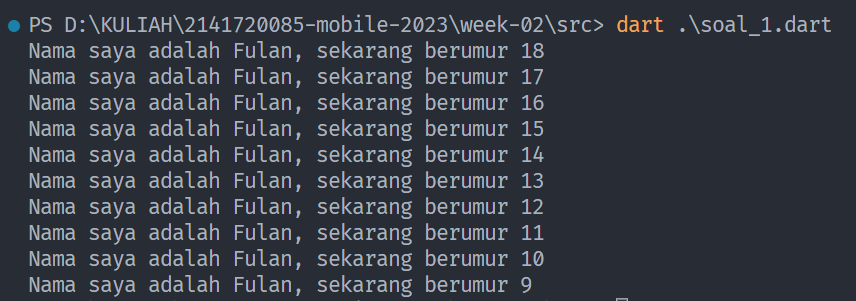
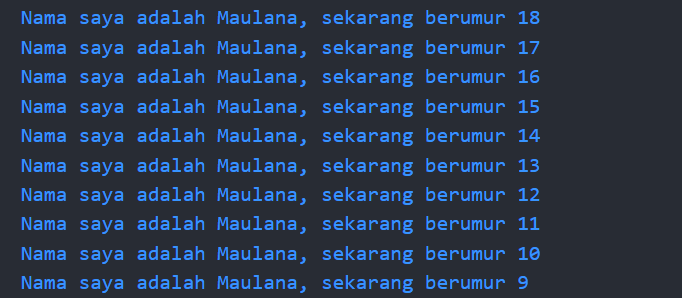
feat: change src code subject

Changed region(s): [[0.0, 0.0302, 0.9853, 1.0]]

diff --git a/week-02/src/soal_1.dart b/week-02/src/soal_1.dart
@@ -1,5 +1,5 @@
 void main() {
   for (var umur = 18; umur >= 9; umur--) {
-    print("Nama saya adalah Fulan, sekarang berumur $umur");
+    print("Nama saya adalah Maulana, sekarang berumur $umur");
   }
 }

diff --git a/week-02/README.md b/week-02/README.md
@@ -32,22 +32,12 @@ Rangkumlah materi dari codelab ini menjadi poin-poin penting yang dapat Anda gun
 
 ### Jawaban
 
-1. **Dart adalah Bahasa Utama Flutter:**
-   - Flutter menggunakan Dart sebagai bahasa pemrograman utama untuk mengembangkan aplikasi.
-   - Memahami Dart adalah kunci untuk menjadi seorang pengembang Flutter yang kompeten.
+Dart adalah bahasa pemrograman yang bertujuan untuk menggabungkan kelebihan-kelebihan dari sebagian besar bahasa tingkat tinggi dengan fitur-fitur bahasa pemrograman terkini. Beberapa fitur utama Dart mencakup:
 
-2. **Penggunaan Dart dalam UI dan Logika:**
-   - Dart digunakan untuk mengelola logika aplikasi dan membangun antarmuka pengguna (UI) dalam Flutter.
-   - Pengembang perlu menguasai Dart untuk mengatur tampilan dan berinteraksi dengan data dalam Flutter.
+- **Productive Tooling:** Dart menyediakan kakas (tool) produktif seperti analisis kode, plugin IDE, dan ekosistem paket yang besar.
+- **Garbage Collection:** Dart memiliki pengelolaan memori dengan garbage collection yang membantu menangani dealokasi memori, terutama untuk objek yang tidak lagi digunakan.
+- **Type Annotations (Opsional):** Dart mendukung penambahan tipe data (type annotations) secara opsional, yang memastikan keamanan dan konsistensi dalam mengontrol data dalam aplikasi.
+- **Statically Typed:** Meskipun tipe data bersifat opsional, Dart tetap aman karena menggunakan type-safe dan type inference untuk menganalisis tipe data saat runtime, membantu menemukan bug selama kompilasi.
+- **Portability:** Bahasa Dart tidak hanya digunakan untuk pengembangan web (dapat diterjemahkan ke JavaScript), tetapi juga dapat dikompilasi secara native ke kode Advanced RISC Machines (ARM) dan x86.
 
-3. **Dart dan Flutter Saling Terkait:**
-   - Flutter SDK dan Dart SDK telah dirancang untuk saling mendukung.
-   - Menggunakan Dart dengan baik dapat mengoptimalkan pengembangan aplikasi Flutter.
-
-4. **Penanganan Event dan State:**
-   - Dart memungkinkan penggunaan efektif dalam menangani event, state, dan alur program dalam Flutter.
-   - Ini penting untuk memahami konsep ini sebelum merancang aplikasi Flutter yang kompleks.
-
-5. **Keamanan Kode dan Null Safety:**
-   - Dart mendukung null safety untuk mencegah NullPointerExceptions dan meningkatkan keamanan kode.
-   - Menyadari konsep ini membantu dalam menghindari bug yang umum terkait dengan nilai null.
+Dalam pengembangan framework Flutter, pemahaman mendalam tentang bahasa Dart sangat penting. Semua aspek pengembangan, termasuk kode aplikasi, kode plugin, dan manajemen dependensi, menggunakan bahasa Dart. Memiliki pemahaman dasar yang kuat tentang Dart akan memudahkan produktivitas dalam pengembangan Flutter dan memberikan kenyamanan dalam bekerja dengan Flutter. Oleh karena itu, penting untuk memahami dasar bahasa Dart sebelum memulai dengan Flutter.
